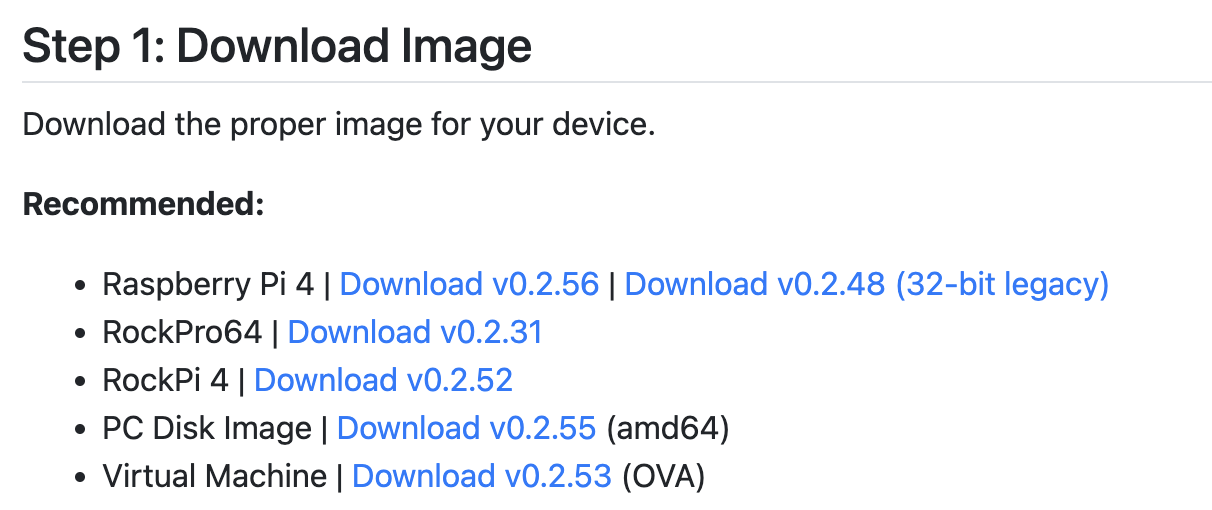
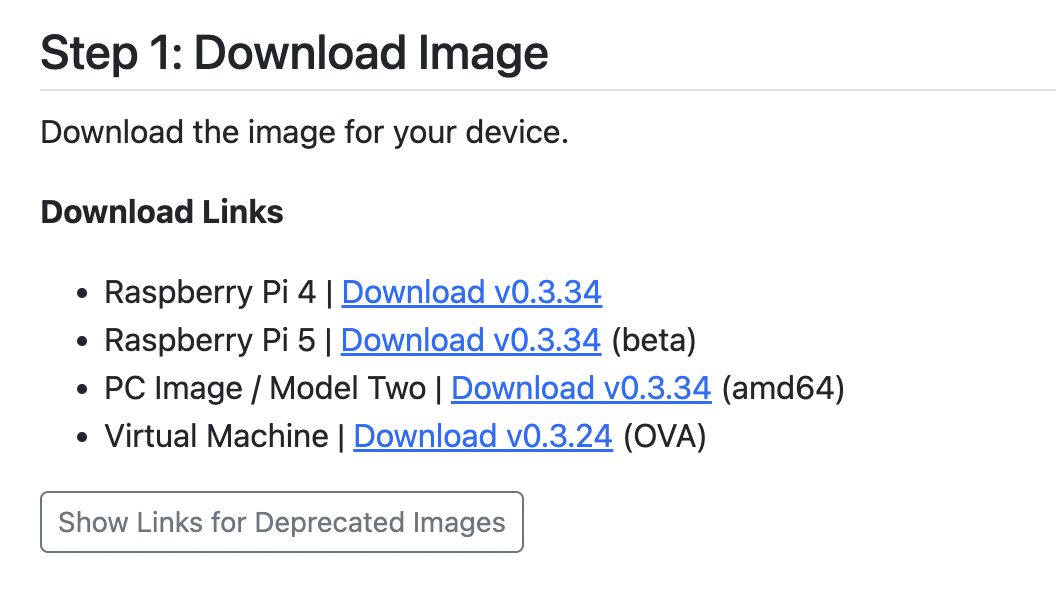
Update Flash OS Image and LND Networking pages

diff --git a/docs/troubleshooting/lightning-network-error.md b/docs/troubleshooting/lightning-network-error.md
@@ -10,24 +10,28 @@ To confirm you are having this issue, find the Lightning log on the status page 
 Jan 12 14:57:21 mynode lnd[15786]: unable to create server: unable to discover a NAT-PMP enabled device on the local network
 ```
 
-This is caused by your network config being set to use Clearnet for Lightning. The Lightning daemon is attempting to communicate with your router to open a port and is failing. Disabling Clearnet setting will resolve the issue.
+This is caused by your network config being set to use Clearnet for Lightning. The Lightning daemon is attempting to communicate with your router to open a port and is failing. You can disable Clearnet or customize your config to resolve this issue.
 
-If you router has public IP address and you are skilled and able to configure port forwarding there might be resolution for advanced users to able to continue using clearnet. 
+If you router has public IP address and you are skilled and able to configure port forwarding, you can edit your Lightning config to resolve the issue and continue using Clearnet. 
 
-## Resolution
+## Simple Resolution - Enable Tor
 
 First, go to the main settings page on your node and scroll to the "Networking" section. In the row for Lightning, disable Clearnet and enable Tor. Save the config. Your device will reboot and Lightning should start as expected.
 
 If you are still having issues, that setting may not have taken effect because of a [custom Lightning config](/advanced/customize-config.md). Reset your custom Lightning config back to the default so the network settings can take effect.
 
-## Advanced User Resolution
+<br/>
+<details>
+<summary><b>Show Advanced Resolutions</b></summary>
 
-As UPnP is not working Advanced Resolution requires user to manually configure port forwarding to router / firewall device and add required parameters to Additional LND Config on MyNode. Even with this case, it may not work due some ISP's do not provide your router real public IP address.
+## Advanced Resolution - Custom Config with Static Public IP
 
-Configure onto modem/router/firewall portforwarding from any public IP address to routers public TCP port 9735 to you MyNode private network IP address port 9735.
+As UPnP is not working, another option is to configure port forwarding on your router / firewall device and add required parameters to Additional LND Config on MyNode. This is not guaranteed to work and is not supported by some ISPs as they do not provide your router a real public IP address.
+
+Configure your modem/router/firewall to enable port forwarding from your public IP address TCP port 9735 to you MyNode device's IP address port 9735.
 
 Go to MyNode main settings page. Find "Lightning" below it click "Edit Config" and "LND Custom Config" page opens. 
-Onto "Additional LND Config" text box enter configuration lines:
+In the "Additional LND Config" text box enter configuration lines:
 ```
 # Nonworking UPnP Router fix
 nat=false
@@ -36,21 +40,23 @@ nat=false
 externalhosts=<YOUR-EXTERNAL-IP>:9735
 ```
 
-As usually public IP addresses of home Internet connections are not static, and therefore change once a while. So this solution is acceptible _only if you have _real_ static IP_ from your ISP (or cloud) provider.
+Usually, the public IP addresses of home Internet connections are not static, and therefore change once a while. So this solution is acceptible _only if you have _real_ static IP_ from your ISP (or cloud) provider.
 
-Internet connections with Dynamic Public IP addresses require bit more configurations. 
+## Advanced Resolution - Custom Config with Dynamic Public IP
+
+Internet connections with Dynamic Public IP addresses require bit more configuration. 
 
 Dynamic DNS must be implemented and DNS hostname must be configured to Additional LND Config.
 
-Dynamic DNS (DDNS) hostname can be created free by opening account to eg. www.no-ip.com, but free DDNS hostnames must be re-verified every 30 days or so. Let's say you make account and create DDNS hostname "mymynodebtc.ddns.net".
+Dynamic DNS (DDNS) hostname can be created for free by opening account to eg. www.no-ip.com, but free DDNS hostnames must be re-verified every 30 days or so. These will give you a domain name to use in place of your public IP since it may change. Let's say you make account and create DDNS hostname "mymynodebtc.ddns.net".
 
 To keep DDNS hostname's IP address updated in case of IPS changes your address, you need to do one of following.
 
-a) Install and configure DDNS Client software to your MyNode (eg. https://www.noip.com/download?page=linux ) and verify it's proper functioning.
+a) Install and configure DDNS Client software to your MyNode (eg. https://www.noip.com/download?page=linux) and verify it is working properly.
 
-b) Configure DDNS Service onto your Modem/Router/Firewall if it supports such function (eg. some Sagemcom cable modems do support).
+b) Enable and configure DDNS Service on your Modem/Router/Firewall if it supports such functionality.
 
-After these are done, you can add following lines in your Additional LND Config (do not include one line with IP Address shown above!)
+After the DDNS software is configured and running, you can add following lines in your Additional LND Config (do not include the line with IP Address shown in the previous section).
 ```
 # Nonworking UPnP Router fix
 nat=false
@@ -60,17 +66,19 @@ tlsextradomain=mymynodebtc.ddns.net
 externalhosts=mymynodebtc.ddns.net:9735
 ```
 
-Naturally use your own DDNS hostname instead of this sample one. Press Save and you MyNode will reboot with new settings.
+Be sure to use your own DDNS hostname instead of this sample one. Press Save and your MyNode will reboot with new settings.
 
-From MyNode Main page click Lightning - Wallet. Notice on "URI" you have your node long ID followed by your IP address:9735 shown! This means successful configuration. Now click TLS Certificates button _regenerate_. After regeneration is complete in a monent, click download and save certificate (on Windows machine) as tls.crt (not .cert!). Open .crt file and verify from Details tab field "Subject Alternative Name". Your DDNS hostname must included on the DNS Name= ... list.
+From the MyNode Main page, click Lightning - Wallet. Notice on "URI" you have your node long ID followed by your IP address:9735 shown! This means the configuration was successful. Now, click TLS Certificates button _regenerate_. After regeneration is complete, click download and save certificate (on Windows machine) as tls.crt (not .cert!). Open .crt file and verify from Details tab field "Subject Alternative Name". Your DDNS hostname must included on the DNS Name= ... list.
 
 Now your LND is able to receive channels from clearnet.
 
-If you own the domain (say mydomain.com) you can add CNAME for DDNS address alias onto you domain DNS records like this:
+## Advanced Resolution - Custom Config with Dynamic Public IP and Domain
+
+If you own the domain (say mydomain.com) you can add a CNAME for your DDNS address alias in your domain DNS records like this:
 
 ```myownnode IN CNAME mymynodebtc.ddns.net.```
 
-Add this new hostname with additional tlsextradomain to config. In such more Advanced case config would be now
+Add this new hostname with additional tlsextradomain to config. In this more advanced case, the config would now be:
 ```
 # Nonworking UPnP Router fix
 nat=false
@@ -80,13 +88,14 @@ tlsextradomain=myownnode.mydomain.com
 tlsextradomain=mymynodebtc.ddns.net
 externalhosts=mymynodebtc.ddns.net:9735
 ```
-Recreate TLS certs, download and verify DNS Name= list from cert. 
-Now your node can be connected with short address:
+
+Re-create TLS certs, download and verify DNS Name= list from cert. 
+Now your node can be connected with the short address:
 
 ```https://myownnode.mydomain.com:9735```
 
-And address will work even you ISP causes address changes.
+Now, this address will work even if your ISP changes your public IP.
 
-If you now plan to provide BTCPay Server or LNbits onto clearnet - you are not quite done yet. BTCPay and LNbits require https traffic to public TCP port 443 and non-selfsigned TSL certificates. Such certs be created with Linux with certbot installed on MyNode. HTTPS traffic inside of MyNode can be forwared with nginx configs, but those configurations are out of scope for this guide.
+If you now plan to provide BTCPay Server or LNbits via clearnet - you are not quite done yet. BTCPay and LNbits require https traffic to public TCP port 443 and non-selfsigned TLS certificates. Such certs be created with Linux with certbot installed on MyNode. HTTPS traffic inside of MyNode can be forwared with nginx configs, but those configurations are out of scope for this guide.
 
-Advanced User Resolution ends here. (So normal Resolution is a bit more simple.)
+</details>

diff --git a/docs/advanced/flash-sd-card.md b/docs/advanced/flash-sd-card.md
@@ -1,12 +1,11 @@
-# Flash SD Card Image
+# Flash MyNode OS Image
 
-For many types of devices, including the Raspberry Pi 4, the first step in getting started is to download a MyNode image and flash it onto an SD card. The SD card is then inserted into the device so it can run the MyNode software.
+For most types of devices, including the Raspberry Pi 4 and mini PCs, the first step in getting started is to download a MyNode image and flash it onto a USB flash drive or SD card. The the flash drive is then inserted into the device so it can run the MyNode software.
 
-For some devices, like PCs and laptops, a USB thumbdrive can be used in place of the SD card using the same instructions.
+This same process can be done to load new versions of software, reset your password if it was forgotten, or to swap to a new flash drive with larger storage capacity.
 
-This same process can be done to load new versions of software, reset your password if it was forgotten, or to swap to a new SD card with larger storage capacity.
-
-## What is an SD Card
+<!--
+## What is an SD Card 
 
 The Raspberry Pi and many other devices use a micro SD card that is inserted into a slot in the device. If you need a micro SD card, they will look similar to the image below and can be purchased from [Amazon](https://amzn.to/3x8AI8r).
 
@@ -23,6 +22,7 @@ On the Raspberry Pi, the SD card slot can be found on the bottom of the device.
     <img src="/images/advanced/flash_sd_card_3.png" width="300">
   </figure>
 </center>
+-->
 
 ## Download the Software Image
 
@@ -34,21 +34,15 @@ You will need to download the image for your device from [mynodebtc.com/download
   </figure>
 </center>
 
-Once downloaded, the software needs to be written to the SD card.
+Once downloaded, the software needs to be written to the flash drive.
 
-## Flash SD Card
+## Flash the OS Image
 
-To load software image on the SD card, you will need a way to connect the SD card to your computer. Some PCs and laptops have a slot to insert them, but most users will need a USB to micro SD adapter. They can be found on [Amazon](https://amzn.to/38OtQF4).
+To load software image on the USB drive or SD card, you will need to connect it to your computer. If you have an SD card, you will need a way to connect it to your computer. Some PCs and laptops have a slot to insert them, but most users will need a USB to micro SD adapter. They can be found on [Amazon](https://amzn.to/38OtQF4).
 
-<center>
-  <figure>
-    <img src="/images/advanced/flash_sd_card_4.png" width="200">
-  </figure>
-</center>
+Connect the flash drive to your computer.
 
-Put the SD card into the adapter and connect it to your PC.
-
-Then, download [Etcher](https://www.balena.io/etcher/), a program for writing software images to SD cards, and install it on your PC or Mac.
+Then, download [Etcher](https://www.balena.io/etcher/), a program for writing software images, and install it on your PC or Mac.
 
 Open Etcher and click "Flash from file" and choose the recently downloaded image.
 
@@ -82,7 +76,7 @@ Once selected, click "Flash!" and the image will be written to the drive. The fl
   </figure>
 </center>
 
-Once the image has been flashed to the SD card, you can remove it from the PC.
+Once the image has been written to the flash drive, you can remove it from the PC.
 
 <center>
   <figure>
@@ -91,9 +85,9 @@ Once the image has been flashed to the SD card, you can remove it from the PC.
 </center>
 
 
-## Insert SD Card into Device
+## Insert Flash Drive into Device
 
-Finally, the last step is to take the SD card and insert it into the unpowered device.
+Finally, the last step is to take the flash drive and insert it into the unpowered device.
 
 <center>
   <figure>
